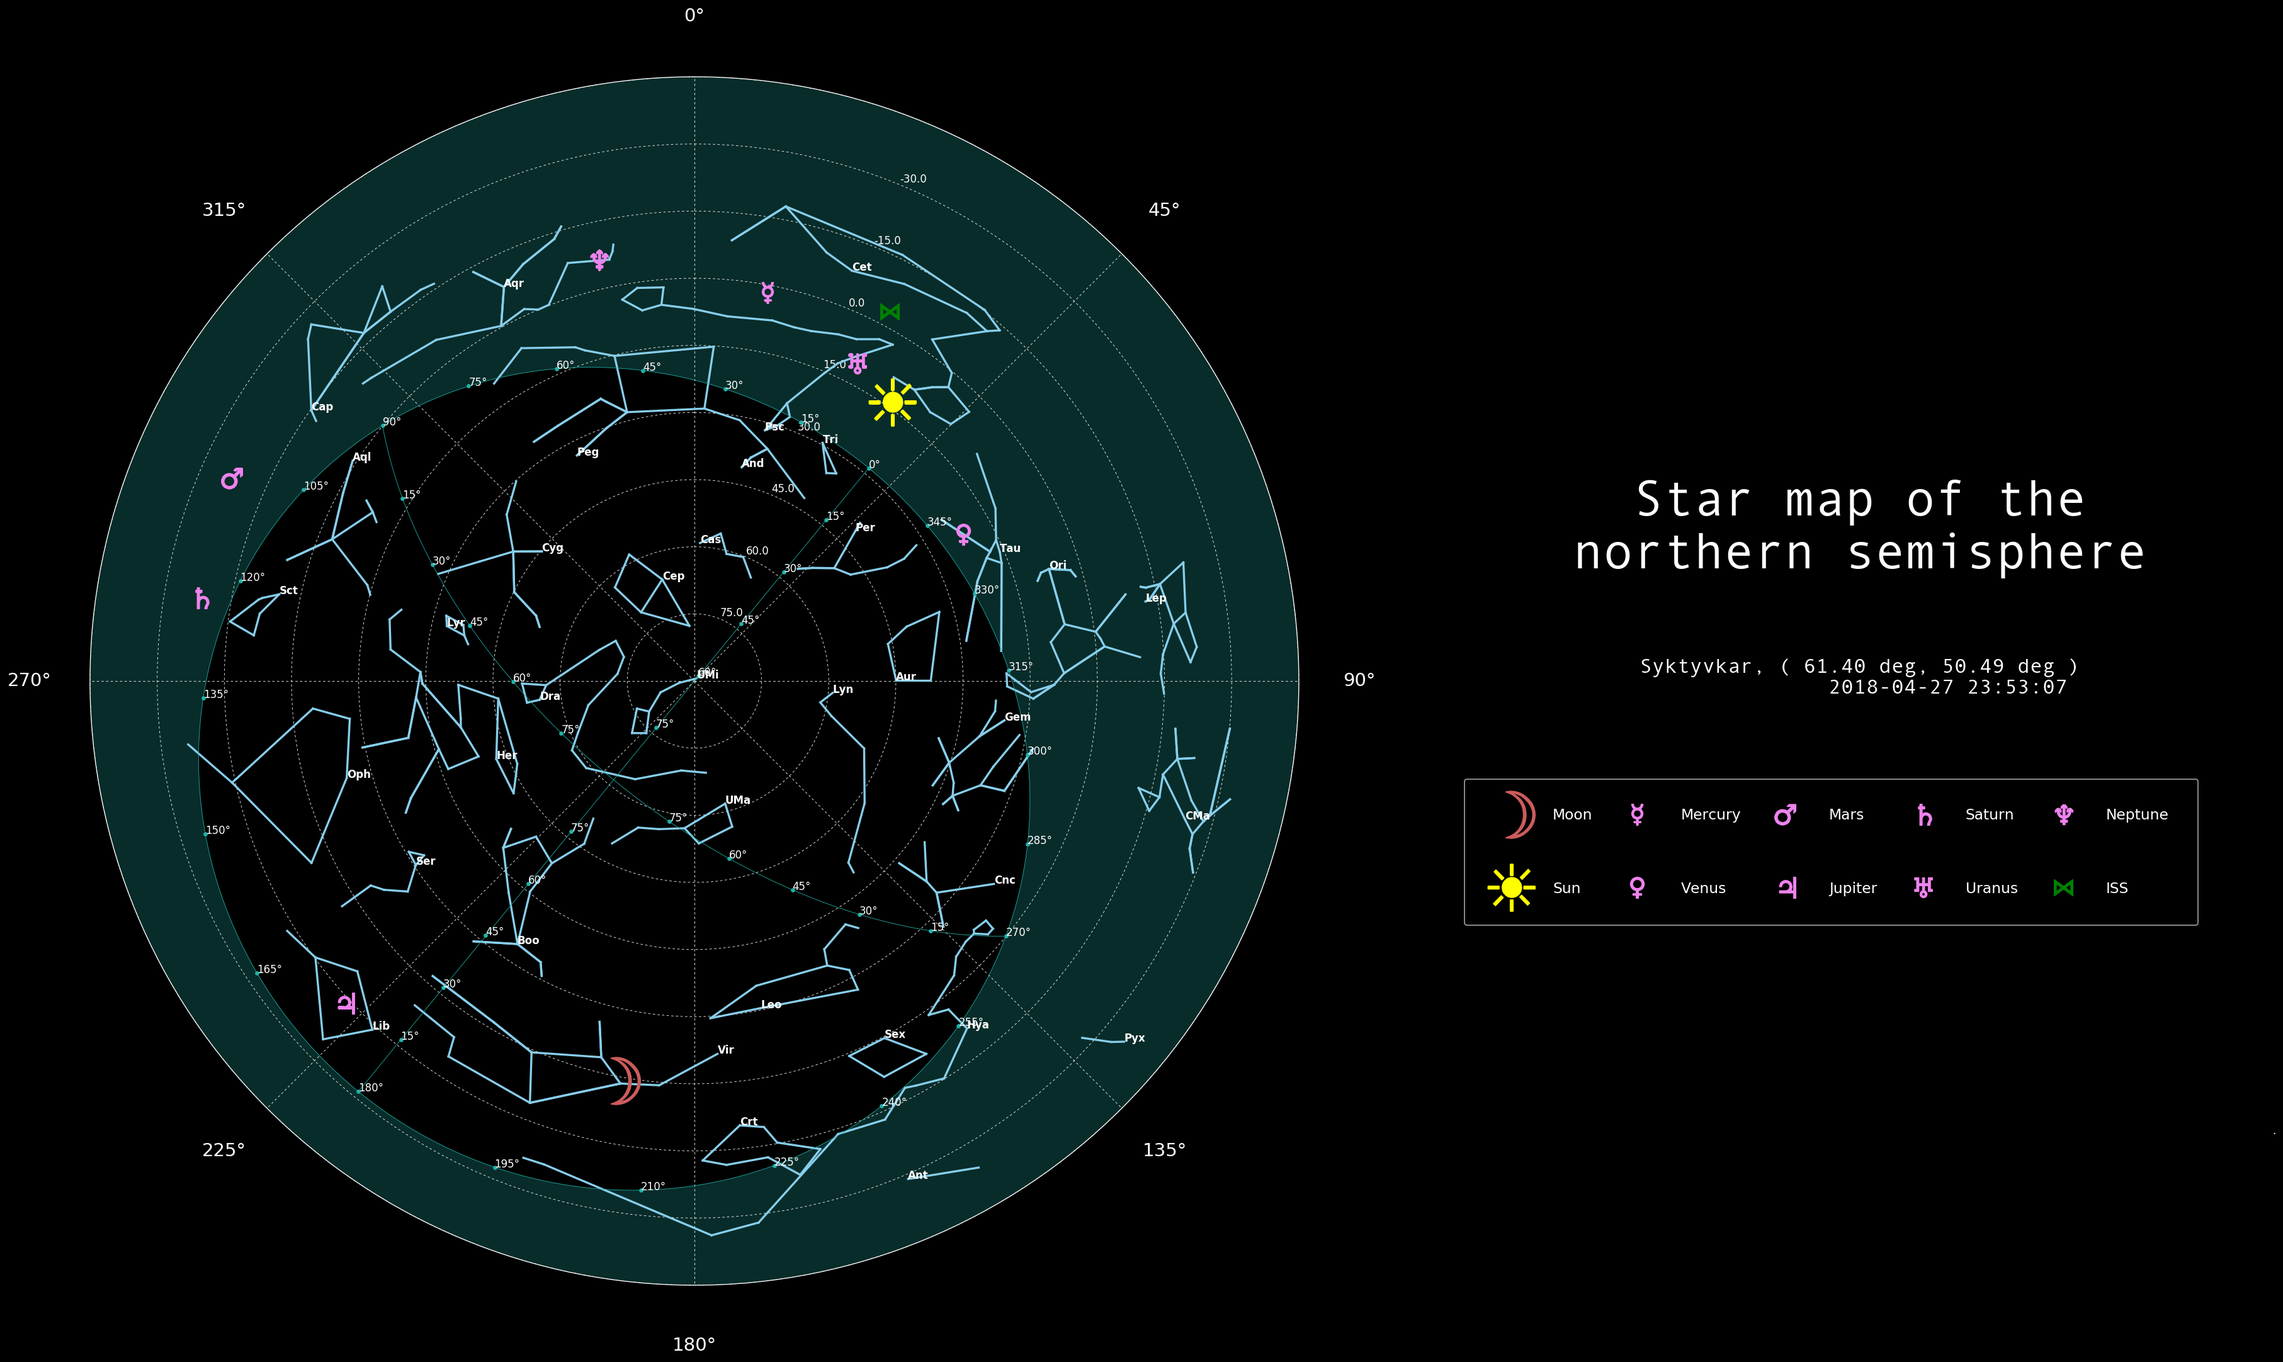
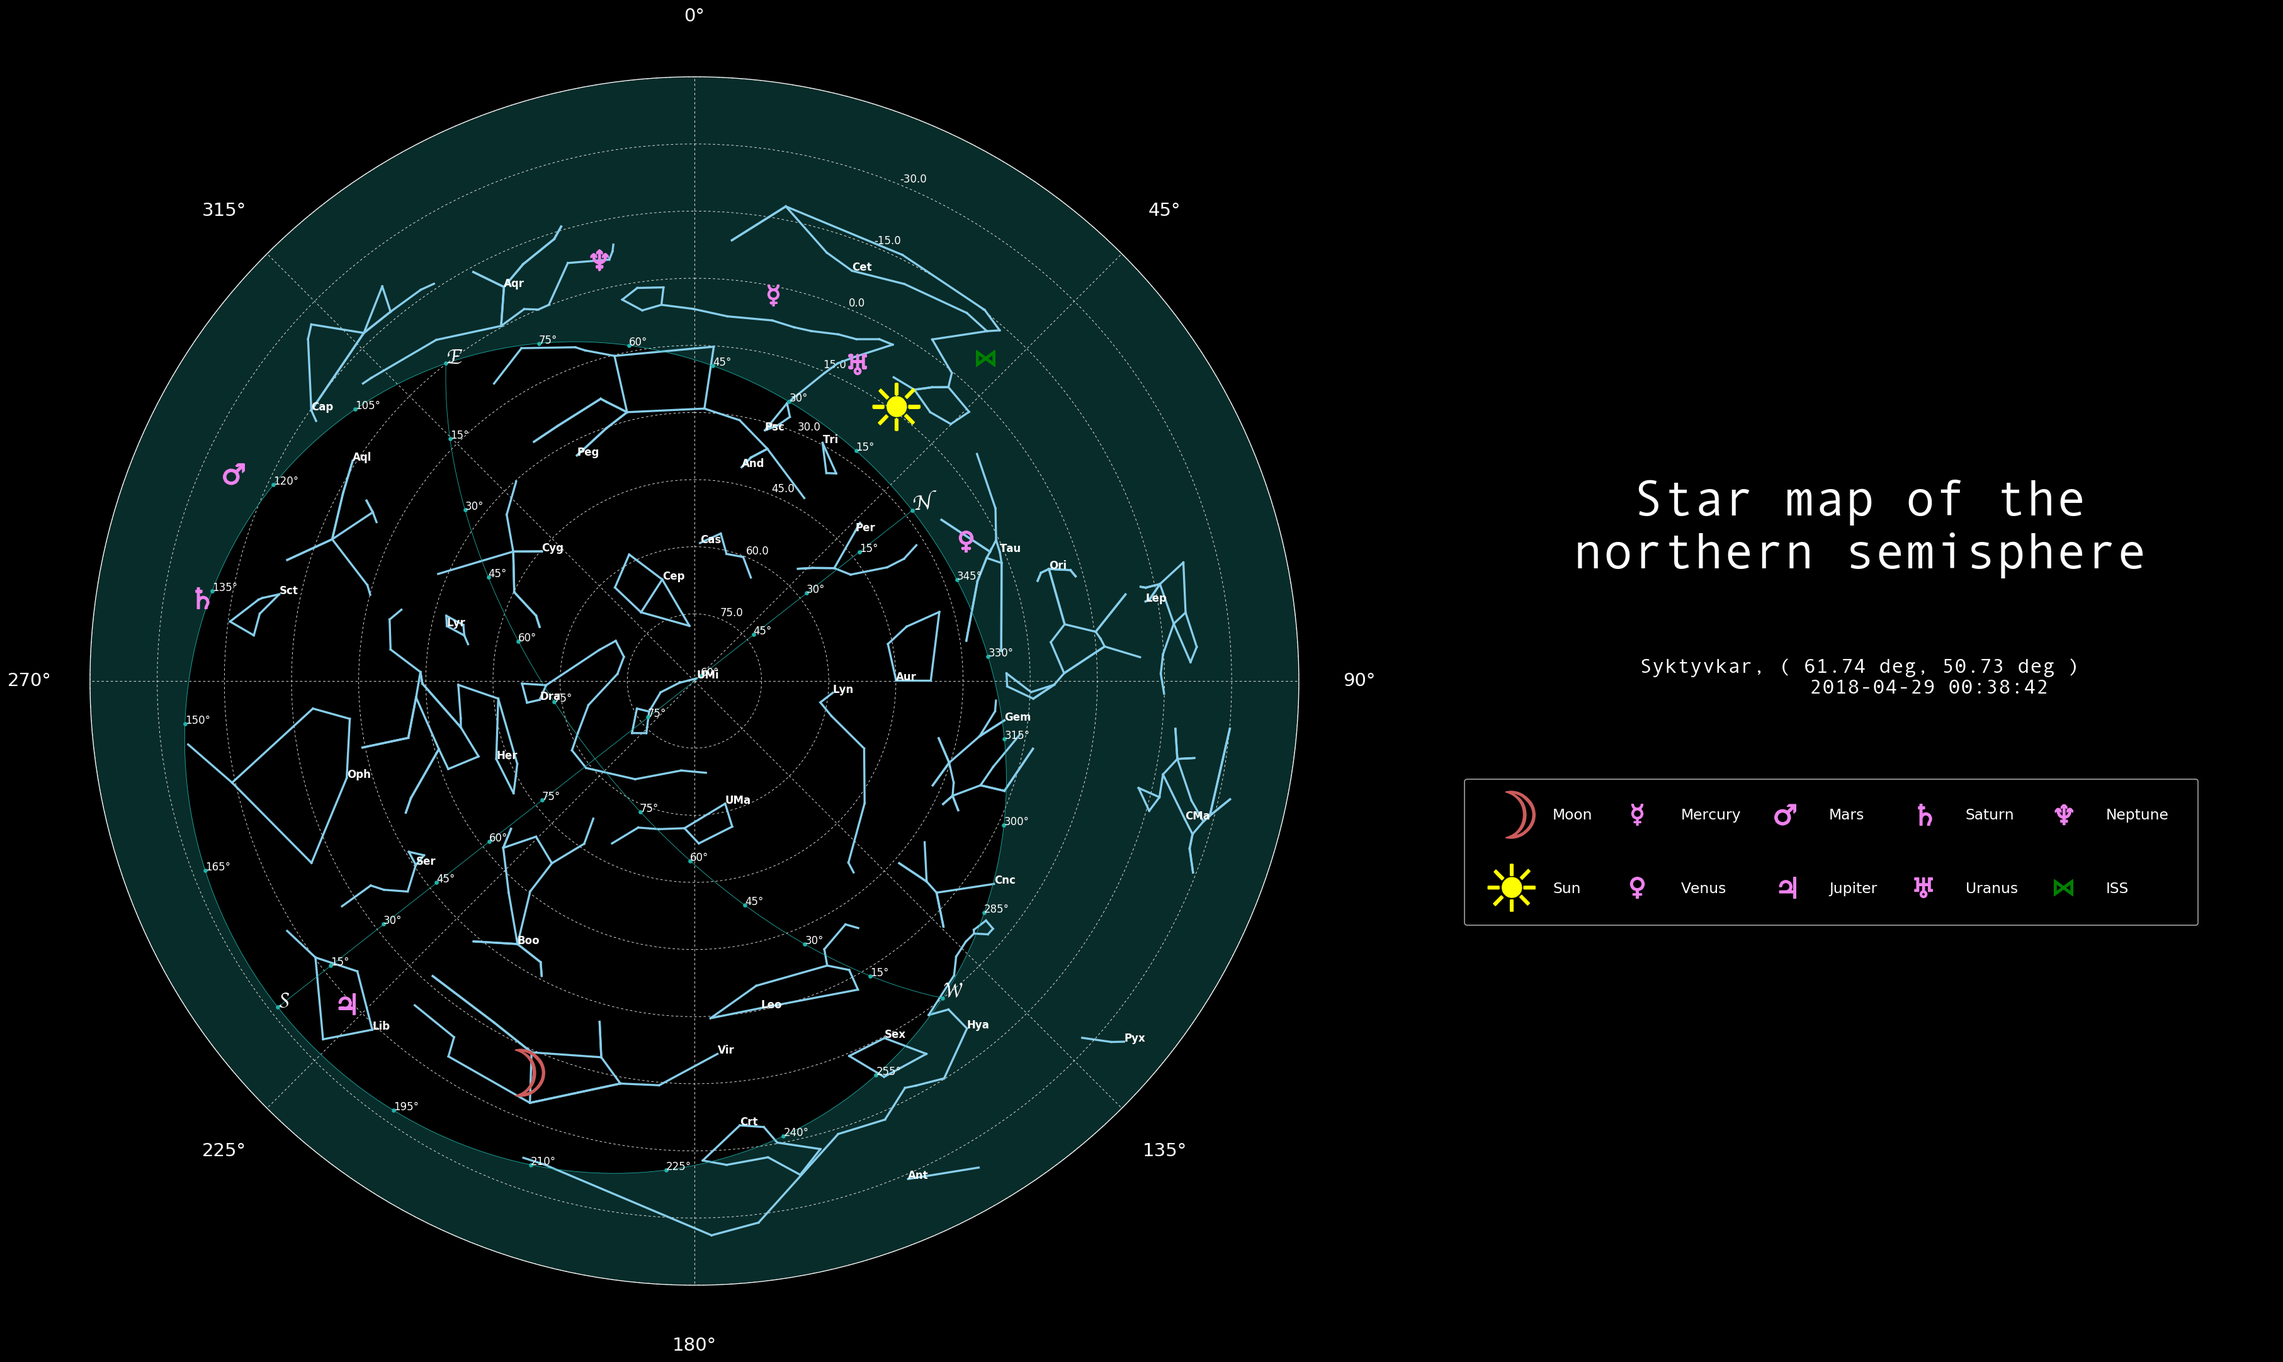
fix cardinal directions, add custom observation time, more comments

diff --git a/util.py b/util.py
@@ -1,3 +1,7 @@
+#!/usr/bin/env python3
+# -*- coding: utf-8 -*-
+
+
 import numpy as np
 
 import matplotlib.pyplot as plt
@@ -19,7 +23,7 @@ markers = { 'moon': 50,
             'sun': 50,
             'iss': 20,
             'planet': 20 }
-style = 'light'  # 'light', 'dark'
+style = 'light'  # 'light' or 'dark'
 plot_size = 4
 dpi = 120
 
@@ -67,7 +71,8 @@ def download_stars(constellations_dict):
                 skipped_stars += 1
                 continue
 
-    print("\r{} stars were downloaded, {} were skipped".format(len(stars_table['Star']), skipped_stars).ljust(80))
+    print( "\r{} stars were downloaded, {} were skipped"
+           .format(len(stars_table['Star']), skipped_stars).ljust(80) )
     if skipped_stars > 0:
         print("You will not be able to plot constellations. Try to re-download")
 
@@ -77,7 +82,8 @@ def download_stars(constellations_dict):
 
 def extract_constellations(stars):
     """
-    Extract individual constellations from one table and put them into separate tables stored in list (sorted by constellation' names)
+    Extract individual constellations from one table and put them into separate
+    tables stored in list (sorted by constellation' names)
     """
 
     constellations = []
@@ -85,7 +91,7 @@ def extract_constellations(stars):
     # find unique constellations in db
     for i,constellation in enumerate(sorted(np.unique(stars['Constellation']))):
         constellations.append( astropy.table.Table( names=['Constellation', 'Star', 'RA', 'dec'],
-                               dtype=['object', 'object', 'float', 'float']  ) )
+                                                    dtype=['object', 'object', 'float', 'float'] ) )
         for star in stars:
             if star['Constellation'] == constellation:
                 constellations[i].add_row(star)
@@ -123,8 +129,11 @@ def extract_forms(constellations_dict, stars_table):
 
 
 def prepare_skymap(fontsize=10):
+
     fig = plt.figure(dpi=dpi)  # figsize=(14, 7)
-    # add an axes at position [left, bottom, width, height] where all quantities are in fractions of figure width and height
+
+    # add an axes at position [left, bottom, width, height] where all quantities are
+    # in fractions of figure width and height
     ax = fig.add_axes([0, 0, plot_size, plot_size], polar=True)
 
     ax.set_theta_zero_location('N')
@@ -148,7 +157,8 @@ def prepare_skymap(fontsize=10):
     ax.get_yticklabels()[0].set_visible(False)
     ax.get_yticklabels()[-1].set_visible(False)
 
-    fig.text(plot_size+(plot_size/2.7), 0.5, ' ')  # for additional space at right
+    fig.text( plot_size+(plot_size/2.7), 0,
+              '.', color=fig.get_facecolor() )  # for additional space at right
 
     print("sky map is prepared")
 
@@ -181,10 +191,14 @@ def plot_sun(ax, obs_time):
 def plot_iss(ax, obs_time, obs_loc, tle=None):
     if tle is None:
         from pyorbital.orbital import Orbital
-        print("request ISS' two-line elements by PyOrbital...")
+        print("request ISS' two-line elements via PyOrbital...")
         orb = Orbital("ISS (ZARYA)")
-        iss = orb.get_observer_look(obs_time.value, obs_loc.lon.value, obs_loc.lat.value, obs_loc.height.value)
-        iss_coord = SkyCoord(iss[0], iss[1], unit='deg', frame='altaz', obstime=obs_time, location=obs_loc)
+        iss = orb.get_observer_look( obs_time.value,
+                                     obs_loc.lon.value,
+                                     obs_loc.lat.value,
+                                     obs_loc.height.value )
+        iss_coord = SkyCoord( iss[0], iss[1], unit='deg', frame='altaz',
+                              obstime=obs_time, location=obs_loc )
     else:
         import ephem
         iss = ephem.readtle('ISS', tle[0], tle[1])
@@ -193,7 +207,8 @@ def plot_iss(ax, obs_time, obs_loc, tle=None):
         location.lon = str(obs_loc.lon.value)
         location.date = obs_time.value
         iss.compute(location)
-        iss_coord = SkyCoord(iss.az, iss.alt, unit='rad', frame='altaz', obstime=obs_time, location=obs_loc)
+        iss_coord = SkyCoord( iss.az, iss.alt, unit='rad', frame='altaz',
+                              obstime=obs_time, location=obs_loc )
 
     iss_coord = iss_coord.transform_to('icrs')
 
@@ -242,22 +257,26 @@ def plot_fov(ax, obs_time, obs_loc, fontsize=10):
     shared_ax = fov.ra.radian
     fov_circle = -fov.dec.value+45
     external_circle = (len(fov_circle)*[-(-45)+45])
-    ax.fill_between(shared_ax, fov_circle, external_circle, where=external_circle>=fov_circle, facecolor=colors['fov_outer'], alpha=0.25)
+    ax.fill_between( shared_ax, fov_circle, external_circle, where=external_circle>=fov_circle,
+                     facecolor=colors['fov_outer'], alpha=0.25 )
 
     #
     # putting on plot ticks of circle axis (axis of azimuth) in the same way as outer circle
     #
     fov_ticks_az = np.arange(0, 345+0.1, 15)
     fov_ticks_alt = np.zeros(len(fov_ticks_az))
-    fov_ticks = SkyCoord(fov_ticks_az, fov_ticks_alt, unit='deg', frame='altaz', obstime=obs_time, location=obs_loc)
+    fov_ticks = SkyCoord( fov_ticks_az, fov_ticks_alt, unit='deg', frame='altaz',
+                          obstime=obs_time, location=obs_loc )
     fov_ticks = fov_ticks.transform_to('icrs')
-    cardinal_directions = ['N', 'W', 'S', 'E']
+    cardinal_directions = ['N', 'E', 'S', 'W']  # anti-clockwise
     cnt = 0
     for (tick_coord, label) in zip(fov_ticks, fov_ticks_az):
-        ax.plot( [tick_coord.ra.radian], [-tick_coord.dec.value+45], '.', color=colors['fov_outer'] )
+        ax.plot( [tick_coord.ra.radian], [-tick_coord.dec.value+45],
+                 '.', color=colors['fov_outer'] )
         if int(label) % 90 == 0:
             ax.text( tick_coord.ra.radian, -tick_coord.dec.value+45,
-                     cardinal_directions[cnt], fontsize=fontsize*2, fontname="Apple Chancery", fontweight='bold' )
+                     cardinal_directions[cnt], fontsize=fontsize*2,
+                     fontname="Apple Chancery", fontweight='bold' )
             cnt += 1
         else:
             ax.text( tick_coord.ra.radian, -tick_coord.dec.value+45,
@@ -268,7 +287,8 @@ def plot_fov(ax, obs_time, obs_loc, fontsize=10):
     #
     SN_ax_alt = [0, 0]
     SN_ax_az = [0, 180]
-    SN_ax = SkyCoord(SN_ax_az, SN_ax_alt, unit='deg', frame='altaz', obstime=obs_time, location=obs_loc)
+    SN_ax = SkyCoord( SN_ax_az, SN_ax_alt, unit='deg', frame='altaz',
+                      obstime=obs_time, location=obs_loc )
     SN_ax = SN_ax.transform_to('icrs')
     ax.plot(SN_ax.ra.radian, -SN_ax.dec.value+45, '-', linewidth=0.5, color=colors['fov_outer'])
 
@@ -276,10 +296,12 @@ def plot_fov(ax, obs_time, obs_loc, fontsize=10):
     SN_ticks_az = len(SN_ticks_alt)*[0]
     SN_ticks_alt = SN_ticks_alt + SN_ticks_alt[::-1]
     SN_ticks_az = SN_ticks_az + len(SN_ticks_az)*[180]
-    SN_ticks = SkyCoord(SN_ticks_az, SN_ticks_alt, unit='deg', frame='altaz', obstime=obs_time, location=obs_loc)
+    SN_ticks = SkyCoord( SN_ticks_az, SN_ticks_alt, unit='deg', frame='altaz',
+                         obstime=obs_time, location=obs_loc )
     SN_ticks = SN_ticks.transform_to('icrs')
     for (tick_coord, label) in zip(SN_ticks, SN_ticks_alt):
-        ax.plot( [tick_coord.ra.radian], [-tick_coord.dec.value+45], '.', color=colors['fov_outer'] )
+        ax.plot( [tick_coord.ra.radian], [-tick_coord.dec.value+45],
+                 '.', color=colors['fov_outer'] )
         ax.text( tick_coord.ra.radian, -tick_coord.dec.value+45,
                  "{}°".format(int(label)), fontsize=fontsize )
 
@@ -289,17 +311,20 @@ def plot_fov(ax, obs_time, obs_loc, fontsize=10):
     WE_ax_alt = [alt for alt in np.arange(0, 90+0.1, 1)]
     WE_ax_az = len(WE_ax_alt)*[90] + (len(WE_ax_alt)-1)*[270]
     WE_ax_alt = WE_ax_alt + WE_ax_alt[:-1][::-1]
-    WE_ax = SkyCoord(WE_ax_az, WE_ax_alt, unit='deg', frame='altaz', obstime=obs_time, location=obs_loc)
+    WE_ax = SkyCoord (WE_ax_az, WE_ax_alt, unit='deg', frame='altaz',
+                     obstime=obs_time, location=obs_loc )
     WE_ax = WE_ax.transform_to('icrs')
     ax.plot(WE_ax.ra.radian, -WE_ax.dec.value+45, '-', linewidth=0.5, color=colors['fov_outer'])
 
     WE_ticks_alt = [alt for alt in np.arange(15, 75+0.1, 15)]
     WE_ticks_az = len(WE_ticks_alt)*[90] + len(WE_ticks_alt)*[270]
     WE_ticks_alt = WE_ticks_alt + WE_ticks_alt[::-1]
-    WE_ticks = SkyCoord(WE_ticks_az, WE_ticks_alt, unit='deg', frame='altaz', obstime=obs_time, location=obs_loc)
+    WE_ticks = SkyCoord( WE_ticks_az, WE_ticks_alt, unit='deg', frame='altaz',
+                         obstime=obs_time, location=obs_loc )
     WE_ticks = WE_ticks.transform_to('icrs')
     for (tick_coord, label) in zip(WE_ticks, WE_ticks_alt):
-        ax.plot( [tick_coord.ra.radian], [-tick_coord.dec.value+45], '.', color=colors['fov_outer'] )
+        ax.plot( [tick_coord.ra.radian], [-tick_coord.dec.value+45],
+                 '.', color=colors['fov_outer'] )
         ax.text( tick_coord.ra.radian, -tick_coord.dec.value+45,
                  "{}°".format(int(label)), fontsize=fontsize )
 

diff --git a/sky_map.py b/sky_map.py
@@ -6,7 +6,6 @@
 # TODO: case when not all stars were downloaded
 # TODO: implement constellations as graphs
 # TODO: animate
-# TODO: feature to set observation time manually
 # TODO: ask for lateset matplotlib fix
 
 
@@ -21,14 +20,31 @@ from astropy.coordinates import EarthLocation
 import astropy.units as u
 import astropy.table
 
-from datetime import datetime
+from datetime import datetime, timedelta
 import time
 
-from util import extract_forms, extract_constellations, prepare_skymap, plot_fov, plot_moon, plot_sun, plot_solarsystem, plot_iss, fonts, plot_size
+from util import extract_forms, extract_constellations, prepare_skymap, plot_fov, plot_moon,\
+                 plot_sun, plot_solarsystem, plot_iss, fonts, plot_size
 from dl_constellations import constellations as constellations_dict
 
 
+location_str = "Syktyvkar"
 internet_geolocation = 1
+if not internet_geolocation:
+    class Loc:
+        """
+        Hard-coded location. You can use it instead of Internet geolocationing
+        """
+        latitude = 61.40
+        longitude = 50.49
+        altitude = 100
+        address = location_str
+
+
+# datetime(year, month, day, hours, minutes, seconds, ms) or 0
+custom_time = None  # datetime(2018, 4, 29, 0, 38, 42, 00000)
+
+
 tle_type = { 'internet': 1,
              'internet_by_url': 0,
              'local': 0 }
@@ -73,26 +89,17 @@ for constellation,constellation_form in zip(constellations,constellations_forms[
              fontsize=fonts['const_name'], weight='bold' )
 
     print("\r{} plotted".format(constellation['Constellation'][0]).ljust(80), end='')
-print('\r'.ljust(80)+'\r', end='')
+print('\rconstellations are plotted'.ljust(80))
 
 
-location_str = "Syktyvkar"
 location = None
 
 if internet_geolocation:
     # request geolocation by string
-    print("request geolocation by geopy...")
+    print("request geolocation via geopy...")
     from geopy.geocoders import Nominatim as geocoder
     location = geocoder().geocode(location_str, timeout=5)
 else:
-    class Loc:
-        """
-        Hard-coded location. You can use it instead of Internet geolocationing
-        """
-        latitude = 61.40
-        longitude = 50.49
-        altitude = 100
-        address = location_str
     location = Loc()
 
 if location is not None:
@@ -106,8 +113,18 @@ else:
 
 
 # Moscow time: 3*u.hour (or datetime.now()-datetime.utcnow())
-utc_offset = ((time.timezone if (time.localtime().tm_isdst==0) else time.altzone)/60/60*-1) * u.hour
-obs_time = astropy.time.Time(datetime.utcnow())
+utc_offset = (time.timezone if (time.localtime().tm_isdst==0) else time.altzone)/60/60*-1
+obs_time = None
+if custom_time:
+    from math import modf
+    obs_time = astropy.time.Time( custom_time - timedelta( hours=modf(utc_offset)[1],
+                                                           minutes=modf(utc_offset)[0] ) )
+else:
+    obs_time = astropy.time.Time( datetime.utcnow() )
+
+if not obs_time:
+    print("NO TIME")
+    sys.exit()
 
 
 # plot current field-of-view, planets, Moon, Sun and ISS
@@ -136,7 +153,8 @@ fig.suptitle( "Star map of the\nnorthern semisphere",
 
 fig.text( plot_size+(plot_size/7), (plot_size/2)-0.025,
           "{0}, ( {1:.2f}, {2:.2f} )\n\
-           {3}\n".format(location_str, obs_loc.lat, obs_loc.lon, str(obs_time+utc_offset)[:-7]),
+           {3}\n".format( location_str, obs_loc.lat, obs_loc.lon,
+                          str(obs_time + (utc_offset*u.hour)) ),
           fontsize=20, fontname="Andale Mono",
           horizontalalignment='center', verticalalignment='center' )
 

diff --git a/dl_constellations.py b/dl_constellations.py
@@ -1,8 +1,12 @@
+#!/usr/bin/env python3
+# -*- coding: utf-8 -*-
+
+
 from collections import OrderedDict
 
 from util import download_stars, extract_forms
 
-#greek_alphabet = "αβγδεζηθικλμνξοπρστυφχψω"  # just for copying letters
+# greek_alphabet = "αβγδεζηθικλμνξοπρστυφχψω"  # just for copying letters
 
 
 # entry point (input data): dict with

diff --git a/README.md b/README.md
@@ -1,4 +1,5 @@
 # starmap-northern
+![cover](/cover.png)
 
 ## Overview and features
 Star map of the northern hemisphere made with Python packages for astronomy: astropy, ephem, pyorbital. It uses matplotlib to render the graphics. Constellations (more accurately, asterisms) and their stars to plot are determined by a user and defined as Python dictionary object. Then, the dedicated script automatically download necessary data (stars coordinates) (SIMBAD database). The main program puts all constellations forms on the plot and draws over the main plane the field of view: the circle showing the region that observer can see at this time in this geolocation. So, 2 coordinate systems are present: bigger outer circle corresponds to RA-dec (ICRS, equatorial coordinate system) and smaller inner circle goes with alt-az (horizontal coordinate system). Additionally, Sun, Moon, Solar system planets and ISS are placed on the plot (if currently located under the northern hemisphere sky). The app can be used for educational purposes.
@@ -6,7 +7,7 @@ Star map of the northern hemisphere made with Python packages for astronomy: ast
 ## Requirements
 Requirements are listed in `requirements.txt` file so you can run
 ```bash
-pip3 install -r requirements.txt
+$ pip3 install -r requirements.txt
 ```
 to install them.
   - astropy: SIMBAD queries, main coordinates transformations, database file storage
@@ -32,13 +33,13 @@ Also, before starting the main script you can specify some settings e.g. online/
 
 To download stars' coordinates and form database files run
 ```bash
-rm stars.html .constellations.html  # start from scratch
-python3 dl_constellations.py
+$ rm stars.html .constellations.html  # start from scratch
+$ python3 dl_constellations.py
 ```
 and wait for completing (it may take tens of minutes). In the end you will see a report that will indicate if some stars hadn't been downloaded. Currently, you must have all stars to be downloaded to successfully make the map. After writing `stars.html` and `.constellations.html` files you can use them for plotting and there is no more needs to start `dl_constellations.py`.
 
 To run main script execute
 ```bash
-python3 sky_map.py
+$ python3 sky_map.py
 ```
 but it's recommended to use IPython (in a browser or Spyder IDE) instead of pure Python.
